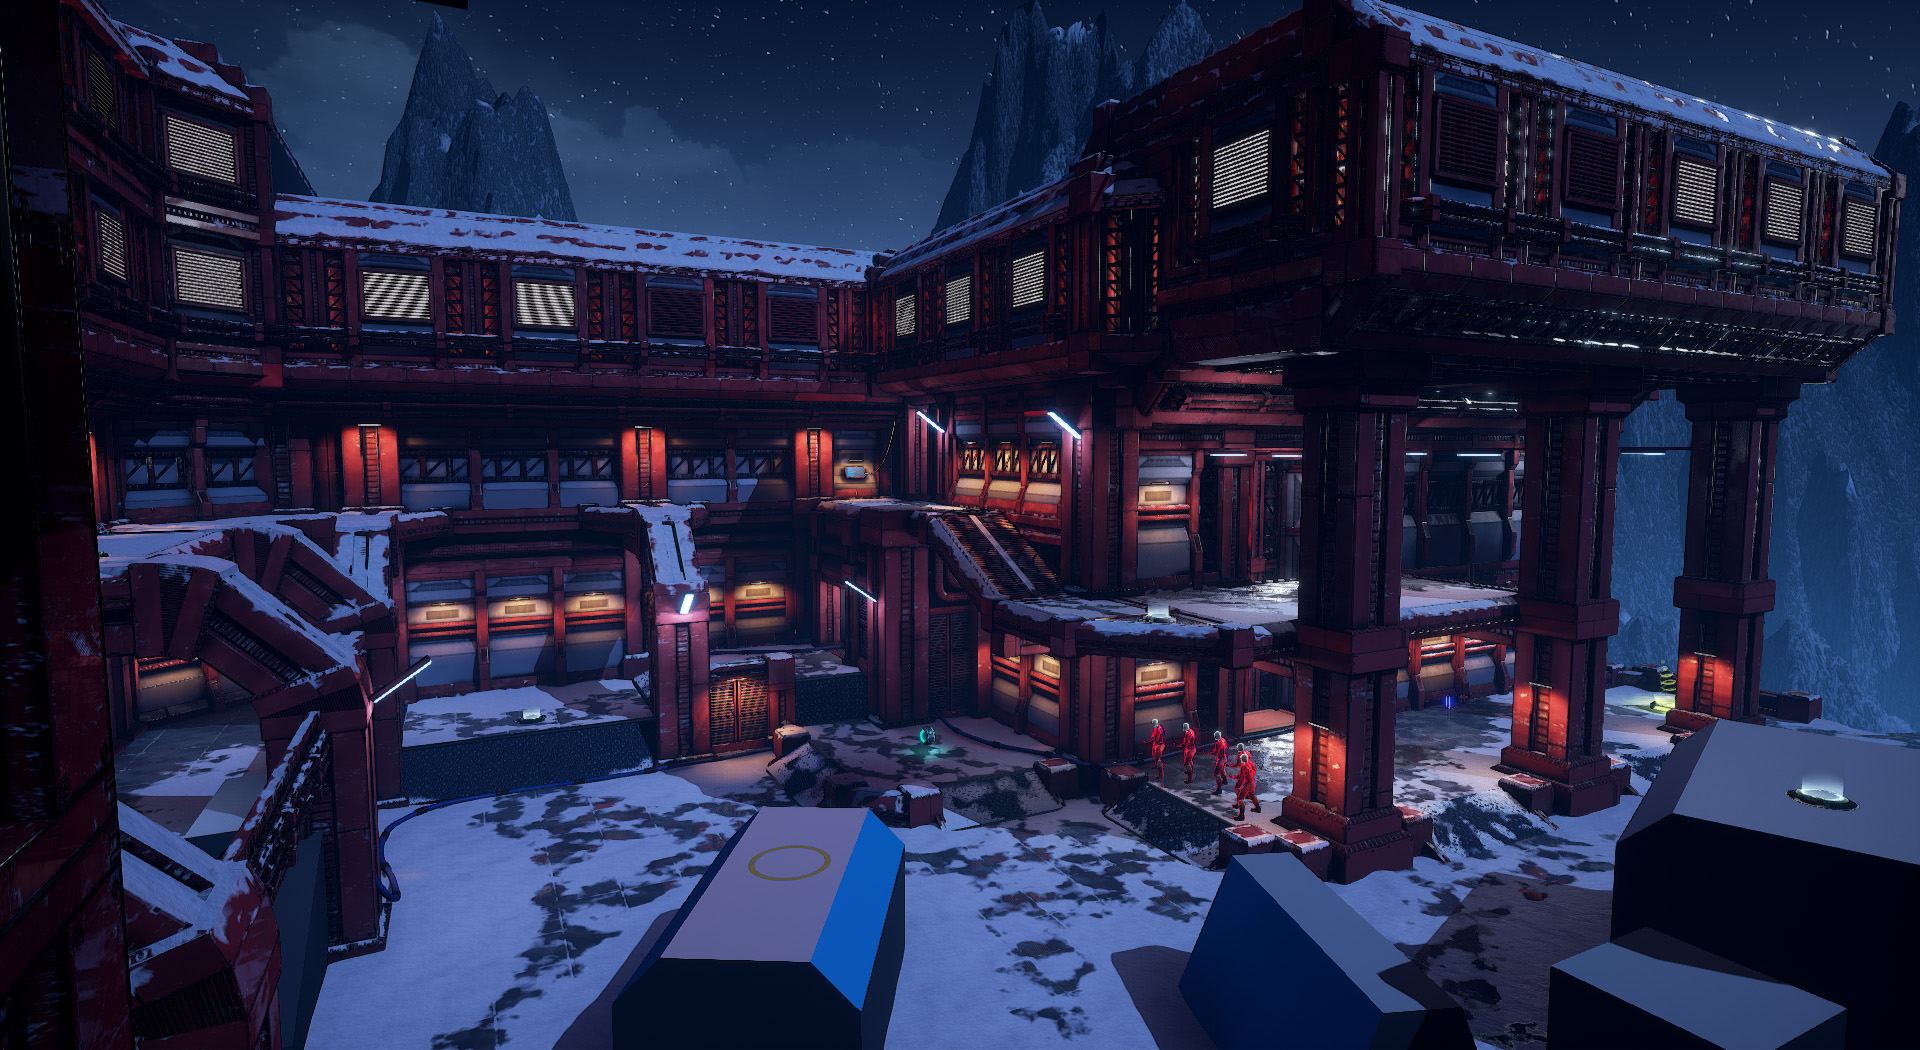
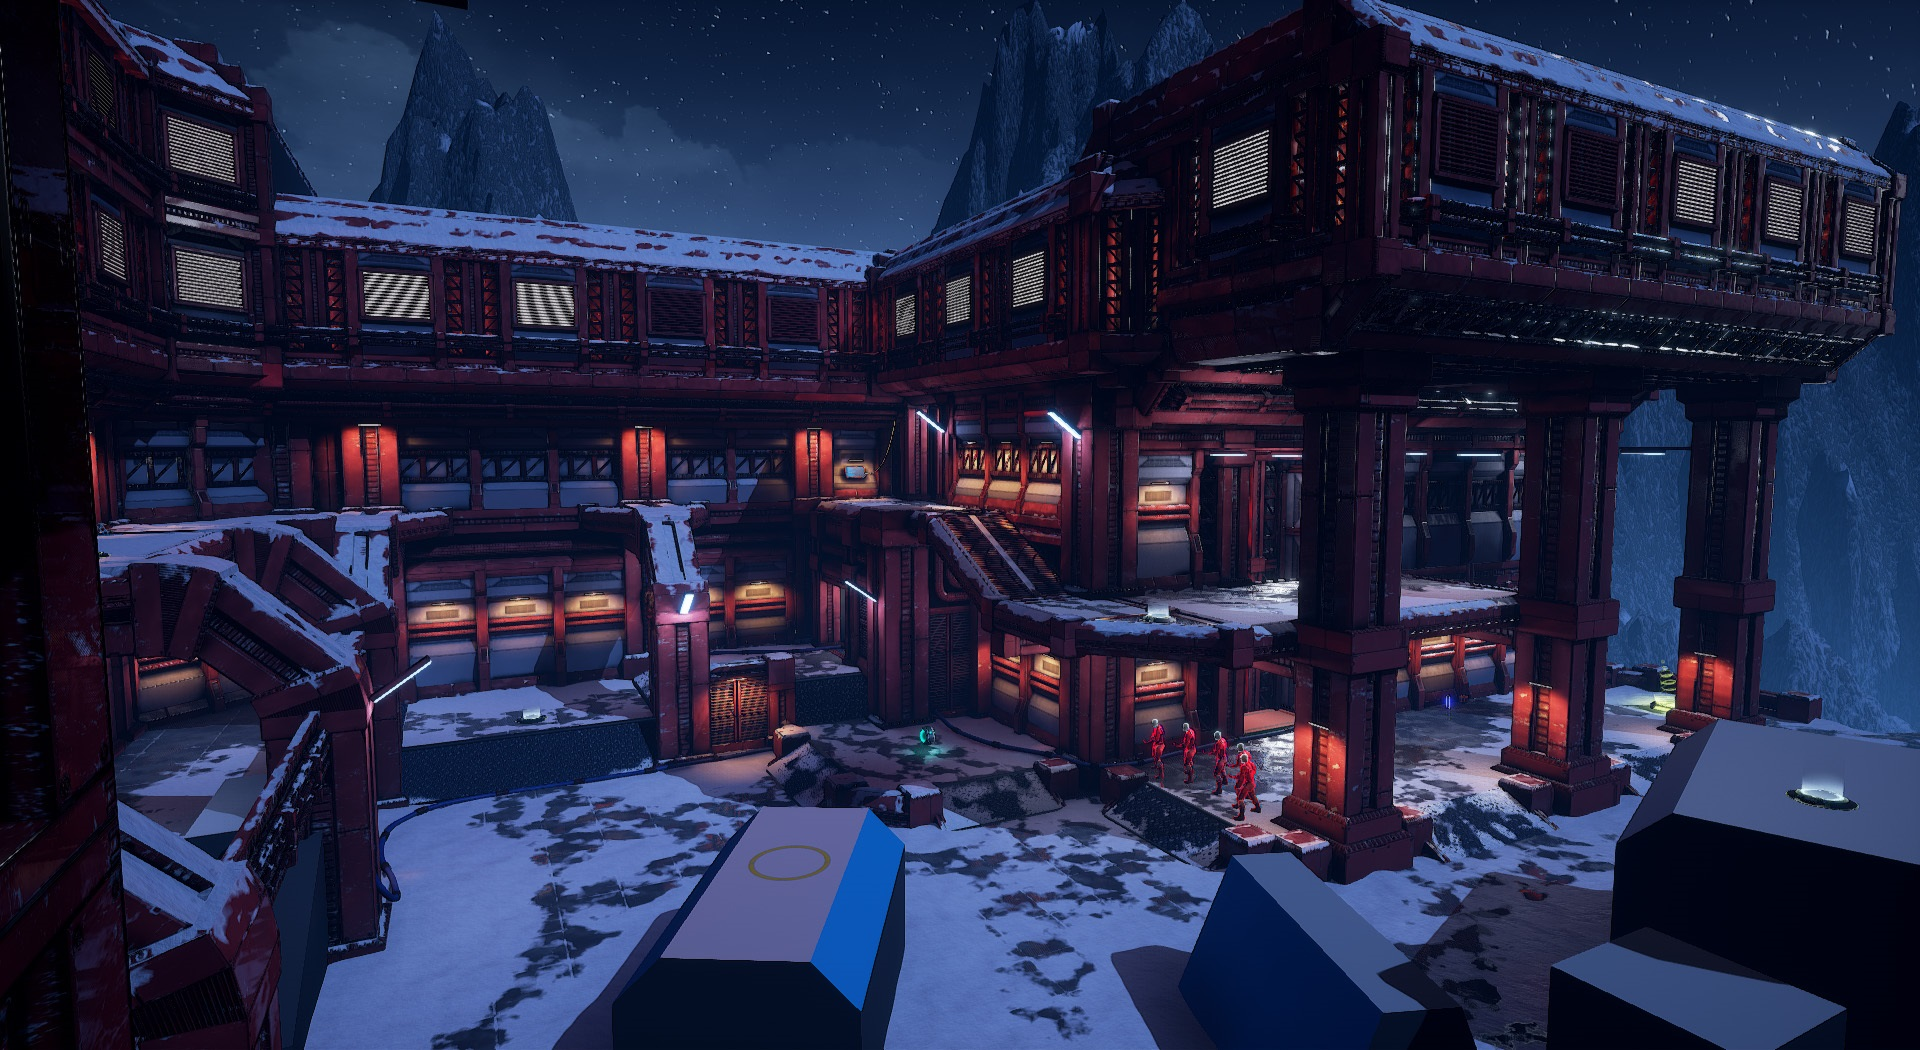
0.09
Added gradient to gallery next/prev
Added "All content" page
Removed "Contact" page
Changed Frost Moon images to smaller version for faster loading

Changed region(s): [[0.5938, 0.701, 0.6562, 0.7619], [0.5, 0.4267, 0.5312, 0.4571], [0.375, 0.64, 0.4062, 0.6705]]

diff --git a/Pages/FrostMoon.html b/Pages/FrostMoon.html
@@ -27,10 +27,10 @@
     <!-- Collect the nav links, forms, and other content for toggling -->
     <div class="navbar-collapse">
       <ul class="nav navbar-nav">
-		<li ><a href="AboutMe.html">About Me</a> </li>
+		<li ><a href="AboutMe.html">About & Contact</a> </li>
+		<li ><a href="Allcontent.html">All Content</a> 
         <li class="current"><a href="FrostMoon.html">Level Design</a> </li>
-		<li ><a href="WorldOfWarcraft.html">World of Warcraft</a> </li>
-		<li><a href="Contact.html">Contact</a> </li>
+		<li><a href="WorldOfWarcraft.html">World of Warcraft</a> </li>
       </ul>
       
     </div>
@@ -66,25 +66,25 @@
 		  <li class="gallery-dot" data-target="#carousel1" data-slide-to="1" onClick="GalleryToImage(9)"></li>
       </ol>
 	  <div class="carousel-inner" role="listbox">
-	    <div class="item active"><img src="../images/FrostMoon/Gallery/Gallery1.jpg" alt="Second slide image" class="center-block">
+	    <div class="item active"><img src="../images/FrostMoon/Gallery/Gallery1-Thumb.jpg" alt="Second slide image" class="center-block">
         </div>
-	    <div class="item"><img src="../images/FrostMoon/Gallery/Gallery2.jpg" alt="Second slide image" class="center-block">
+	    <div class="item"><img src="../images/FrostMoon/Gallery/Gallery2-Thumb.jpg" alt="Second slide image" class="center-block">
         </div>
-		   <div class="item"><img src="../images/FrostMoon/Gallery/Gallery3.jpg" alt="Second slide image" class="center-block">
+		   <div class="item"><img src="../images/FrostMoon/Gallery/Gallery3-Thumb.jpg" alt="Second slide image" class="center-block">
         </div>
-		   <div class="item"><img src="../images/FrostMoon/Gallery/Gallery4.jpg" alt="Second slide image" class="center-block">
+		   <div class="item"><img src="../images/FrostMoon/Gallery/Gallery4-Thumb.jpg" alt="Second slide image" class="center-block">
         </div>
-		   <div class="item"><img src="../images/FrostMoon/Gallery/Gallery5.jpg" alt="Second slide image" class="center-block">
+		   <div class="item"><img src="../images/FrostMoon/Gallery/Gallery5-Thumb.jpg" alt="Second slide image" class="center-block">
         </div>
-		   <div class="item"><img src="../images/FrostMoon/Gallery/Gallery6.jpg" alt="Second slide image" class="center-block">
+		   <div class="item"><img src="../images/FrostMoon/Gallery/Gallery6-Thumb.jpg" alt="Second slide image" class="center-block">
         </div>
-		  <div class="item"><img src="../images/FrostMoon/Gallery/Gallery7.jpg" alt="Second slide image" class="center-block">
+		  <div class="item"><img src="../images/FrostMoon/Gallery/Gallery7-Thumb.jpg" alt="Second slide image" class="center-block">
         </div>
-		  <div class="item"><img src="../images/FrostMoon/Gallery/Gallery8.jpg" alt="Second slide image" class="center-block">
+		  <div class="item"><img src="../images/FrostMoon/Gallery/Gallery8-Thumb.jpg" alt="Second slide image" class="center-block">
         </div>
-		  <div class="item"><img src="../images/FrostMoon/Gallery/Gallery9.jpg" alt="Second slide image" class="center-block">
+		  <div class="item"><img src="../images/FrostMoon/Gallery/Gallery9-Thumb.jpg" alt="Second slide image" class="center-block">
         </div>
-		  <div class="item"><img src="../images/FrostMoon/Gallery/Gallery10.jpg" alt="Second slide image" class="center-block">
+		  <div class="item"><img src="../images/FrostMoon/Gallery/Gallery10-Thumb.jpg" alt="Second slide image" class="center-block">
         </div>
 		  <a class="left carousel-control" onClick="GalleryPrevImage()"><span class="glyphicon glyphicon-chevron-left" aria-hidden="true"></span><span class="sr-only">Previous</span></a><a class="right carousel-control" onClick="GalleryNextImage()"><span class="glyphicon glyphicon-chevron-right" aria-hidden="true"></span><span class="sr-only">Next</span></a>
 		  
@@ -128,39 +128,39 @@
 	   <!-- <li data-target="#carousel2" data-slide-to="2"></li>-->
       </ol>
 	  <div class="carousel-inner" role="listbox">
-	    <div class="item-dev active"><img src="../images/FrostMoon/DevGallery/Gallery1.jpg" alt="First slide image" class="center-block">
+	    <div class="item-dev active"><img src="../images/FrostMoon/DevGallery/Gallery1-Thumb.jpg" alt="First slide image" class="center-block">
         </div>
-	    <div class="item-dev"><img src="../images/FrostMoon/DevGallery/Gallery2.jpg" alt="Second slide image" class="center-block">
+	    <div class="item-dev"><img src="../images/FrostMoon/DevGallery/Gallery2-Thumb.jpg" alt="Second slide image" class="center-block">
         </div>
-		  <div class="item-dev"><img src="../images/FrostMoon/DevGallery/Gallery3.jpg" alt="Second slide image" class="center-block">
+		  <div class="item-dev"><img src="../images/FrostMoon/DevGallery/Gallery3-Thumb.jpg" alt="Second slide image" class="center-block">
         </div>
-		  <div class="item-dev"><img src="../images/FrostMoon/DevGallery/Gallery4.jpg" alt="Second slide image" class="center-block">
+		  <div class="item-dev"><img src="../images/FrostMoon/DevGallery/Gallery4-Thumb.jpg" alt="Second slide image" class="center-block">
         </div>
-		  <div class="item-dev"><img src="../images/FrostMoon/DevGallery/Gallery5.jpg" alt="Second slide image" class="center-block">
+		  <div class="item-dev"><img src="../images/FrostMoon/DevGallery/Gallery5-Thumb.jpg" alt="Second slide image" class="center-block">
         </div>
-		  <div class="item-dev"><img src="../images/FrostMoon/DevGallery/Gallery6.jpg" alt="Second slide image" class="center-block">
+		  <div class="item-dev"><img src="../images/FrostMoon/DevGallery/Gallery6-Thumb.jpg" alt="Second slide image" class="center-block">
         </div>
-		  <div class="item-dev"><img src="../images/FrostMoon/DevGallery/Gallery7.jpg" alt="Second slide image" class="center-block">
+		  <div class="item-dev"><img src="../images/FrostMoon/DevGallery/Gallery7-Thumb.jpg" alt="Second slide image" class="center-block">
         </div>
-		   <div class="item-dev"><img src="../images/FrostMoon/DevGallery/Gallery8.jpg" alt="Second slide image" class="center-block">
+		   <div class="item-dev"><img src="../images/FrostMoon/DevGallery/Gallery8-Thumb.jpg" alt="Second slide image" class="center-block">
         </div>
-		   <div class="item-dev"><img src="../images/FrostMoon/DevGallery/Gallery9.jpg" alt="Second slide image" class="center-block">
+		   <div class="item-dev"><img src="../images/FrostMoon/DevGallery/Gallery9-Thumb.jpg" alt="Second slide image" class="center-block">
         </div>
-		   <div class="item-dev"><img src="../images/FrostMoon/DevGallery/Gallery10.jpg" alt="Second slide image" class="center-block">
+		   <div class="item-dev"><img src="../images/FrostMoon/DevGallery/Gallery10-Thumb.jpg" alt="Second slide image" class="center-block">
         </div>
-		   <div class="item-dev"><img src="../images/FrostMoon/DevGallery/Gallery11.jpg" alt="Second slide image" class="center-block">
+		   <div class="item-dev"><img src="../images/FrostMoon/DevGallery/Gallery11-Thumb.jpg" alt="Second slide image" class="center-block">
         </div>
-		   <div class="item-dev"><img src="../images/FrostMoon/DevGallery/Gallery12.jpg" alt="Second slide image" class="center-block">
+		   <div class="item-dev"><img src="../images/FrostMoon/DevGallery/Gallery12-Thumb.jpg" alt="Second slide image" class="center-block">
         </div>
-		   <div class="item-dev"><img src="../images/FrostMoon/DevGallery/Gallery13.jpg" alt="Second slide image" class="center-block">
+		   <div class="item-dev"><img src="../images/FrostMoon/DevGallery/Gallery13-Thumb.jpg" alt="Second slide image" class="center-block">
         </div>
-		   <div class="item-dev"><img src="../images/FrostMoon/DevGallery/Gallery14.jpg" alt="Second slide image" class="center-block">
+		   <div class="item-dev"><img src="../images/FrostMoon/DevGallery/Gallery14-Thumb.jpg" alt="Second slide image" class="center-block">
         </div>
-		   <div class="item-dev"><img src="../images/FrostMoon/DevGallery/Gallery15.jpg" alt="Second slide image" class="center-block">
+		   <div class="item-dev"><img src="../images/FrostMoon/DevGallery/Gallery15-Thumb.jpg" alt="Second slide image" class="center-block">
         </div>
-		  <div class="item-dev"><img src="../images/FrostMoon/DevGallery/Gallery16.jpg" alt="Second slide image" class="center-block">
+		  <div class="item-dev"><img src="../images/FrostMoon/DevGallery/Gallery16-Thumb.jpg" alt="Second slide image" class="center-block">
         </div>
-		   <div class="item-dev"><img src="../images/FrostMoon/DevGallery/Gallery17.jpg" alt="Second slide image" class="center-block">
+		   <div class="item-dev"><img src="../images/FrostMoon/DevGallery/Gallery17-Thumb.jpg" alt="Second slide image" class="center-block">
         </div>
 		  
 		  <a class="left carousel-control" onClick="DevGalleryPrevImage()"><span class="glyphicon glyphicon-chevron-left" aria-hidden="true"></span><span class="sr-only">Previous</span></a><a class="right carousel-control" onClick="DevGalleryNextImage()"><span class="glyphicon glyphicon-chevron-right" aria-hidden="true"></span><span class="sr-only">Next</span></a>

diff --git a/Pages/AllContent.html b/Pages/AllContent.html
@@ -29,9 +29,9 @@
     <div class="navbar-collapse">
       <ul class="nav navbar-nav">
 		<li ><a href="AboutMe.html">About & Contact</a> </li>
-		<li ><a href="Allcontent.html">All Content</a> 
+		<li class="current"><a href="Allcontent.html">All Content</a> 
         <li ><a href="FrostMoon.html">Level Design</a> </li>
-		<li class="current"><a href="WorldOfWarcraft.html">World of Warcraft</a> </li>
+		<li><a href="WorldOfWarcraft.html">World of Warcraft</a> </li>
       </ul>
       
     </div>
@@ -46,41 +46,48 @@
 	 
 <div class="container">
 	<div class="pageTitle">
-	 <h1>World of Warcaft</h1>
+	 <h1>All content</h1>
 		</div>
   <!--<div class="row">-->
-    <div class="col-lg-12 col-md-12">
-      <div class="frontTile " style="height:auto" >
-		  <div class="tileText">
-			<span>In 2011 I set my first step into add-on creation for World of Warcraft. It started out as an ugly duckling, but I was determined to stick to it, and as it improved in quality, so did my skills.
-		  	</span>
-		  <span>In the years since, I've created more projects, experimented with new things, and learned a lot. But most importantly I found a passion.
-		  </span>
-		  <span>
-			  By sharing my add-ons with others, I learned the importance of feedback. With every add-on you create something, get feedback, and learn to use it to improve both the product and your skills.
-			</span>
-		   <span>
-			   When creating an add-on I take it upon myself to make it fit in with the default UI as much as possible. Both as an extra challenge, and to not take away from the player's immersion by looking out of place.
-		  </span>
-		  </div>
-		  </div>
-		</div>
-	
-	<div class="col-lg-6 col-md-12">
-		  <a class="frontTile" href="WorldQuestTab.html" >
-			<div class="frontTileBody" style='background-image:url("../images/WoW_WQT.jpg");'>
+    
+	<div class="col-lg-4 col-md-6 col-xs-6">
+		  <a class="frontTile" href="AboutMe.html" >
+			<div class="frontTileBody" style='background-image:url("../images/AboutMe.jpg");'>
 <div class="frontTileDetails">
-            <h2 class="frontTileTitle">World Quest Tab</h2>
+            <h2 class="frontTileTitle">About & Contact</h2>
 	</div>
             </div>
 		  </a>
 		  </div>
 	
-	<div class="col-lg-6 col-md-12">
+	<div class="col-lg-4 col-md-6 col-xs-6">
+		  <a class="frontTile" href="FrostMoon.html" >
+			<div class="frontTileBody" style='background-image:url("../images/LD_FrostMoon.jpg");'>
+<div class="frontTileDetails">
+            <div class="h2 frontTileTitle">Frost Moon<h6 class="allContentSub">Level Design</h6></div>
+			
+	</div>
+            </div>
+		  </a>
+		  </div>
+	
+	<div class="col-lg-4 col-md-6 col-xs-6">
+		  <a class="frontTile" href="WorldQuestTab.html" >
+			<div class="frontTileBody" style='background-image:url("../images/WoW_WQT.jpg");'>
+<div class="frontTileDetails">
+            <div class="h2 frontTileTitle">World Quest Tab<h6 class="allContentSub">World of Warcraft</h6></div>
+			
+	</div>
+            </div>
+		  </a>
+		  </div>
+	
+	<div class="col-lg-4 col-md-6  col-xs-6">
 		  <a class="frontTile" href="ILearnedWhat.html" >
 			<div class="frontTileBody" style='background-image:url("../images/WoW_ILW.jpg");'>
 <div class="frontTileDetails">
-            <h2 class="frontTileTitle">I Learned What?</h2>
+            <div class="h2 frontTileTitle">I Learned What?<h6 class="allContentSub">World of Warcraft</h6></div>
+			
 	</div>
             </div>
 		  </a>

diff --git a/css/bootstrap.css b/css/bootstrap.css
@@ -6348,24 +6348,24 @@ button.close {
   opacity: .5;
 }
 .carousel-control.left {
-	/*
+	left: 0px;
   background-image: -webkit-linear-gradient(left, rgba(0, 0, 0, .5) 0%, rgba(0, 0, 0, .0001) 100%);
   background-image:      -o-linear-gradient(left, rgba(0, 0, 0, .5) 0%, rgba(0, 0, 0, .0001) 100%);
   background-image: -webkit-gradient(linear, left top, right top, from(rgba(0, 0, 0, .5)), to(rgba(0, 0, 0, .0001)));
   background-image:         linear-gradient(to right, rgba(0, 0, 0, .5) 0%, rgba(0, 0, 0, .0001) 100%);
-	*/
+
   filter: progid:DXImageTransform.Microsoft.gradient(startColorstr='#80000000', endColorstr='#00000000', GradientType=1);
   background-repeat: repeat-x;
 }
 .carousel-control.right {
-  right: 0;
+  right: 0px;
   left: auto;
-	/*
+	
   background-image: -webkit-linear-gradient(left, rgba(0, 0, 0, .0001) 0%, rgba(0, 0, 0, .5) 100%);
   background-image:      -o-linear-gradient(left, rgba(0, 0, 0, .0001) 0%, rgba(0, 0, 0, .5) 100%);
   background-image: -webkit-gradient(linear, left top, right top, from(rgba(0, 0, 0, .0001)), to(rgba(0, 0, 0, .5)));
   background-image:         linear-gradient(to right, rgba(0, 0, 0, .0001) 0%, rgba(0, 0, 0, .5) 100%);
-	*/
+	
   filter: progid:DXImageTransform.Microsoft.gradient(startColorstr='#00000000', endColorstr='#80000000', GradientType=1);
   background-repeat: repeat-x;
 }
@@ -6462,6 +6462,16 @@ button.close {
 
 .carousel-caption .btn {
   text-shadow: none;
+}
+@media screen and (min-width: 1200px) {
+		.carousel-control.left {
+  left: 100px;
+	}
+	
+	.carousel-control.right {
+  right: 100px;
+  left: auto;
+	}
 }
 @media screen and (min-width: 768px) {
   .carousel-control .glyphicon-chevron-left,
@@ -6709,6 +6719,14 @@ li > a::hover {
 
 .frontTileSub {
 	display: none;
+}
+
+.allContentSub {
+	display: block;
+	margin: 0px 0px 0px 0px;
+	border-radius: 5px;
+
+	padding: 2px 4px 2px 4px;
 }
 
 .navbar-brand >h1{

diff --git a/Pages/WorldQuestTab.html b/Pages/WorldQuestTab.html
@@ -28,10 +28,10 @@
     <!-- Collect the nav links, forms, and other content for toggling -->
     <div class="navbar-collapse">
       <ul class="nav navbar-nav">
-		<li ><a href="AboutMe.html">About Me</a> </li>
+		<li ><a href="AboutMe.html">About & Contact</a> </li>
+		<li ><a href="Allcontent.html">All Content</a> 
         <li ><a href="FrostMoon.html">Level Design</a> </li>
 		<li class="current"><a href="WorldOfWarcraft.html">World of Warcraft</a> </li>
-		<li><a href="Contact.html">Contact</a> </li>
       </ul>
       
     </div>
@@ -71,7 +71,7 @@
 	    <div class="item"><img src="../images/WQT/Gallery2.jpg" alt="Second slide image" class="center-block">
         </div>
 		  
-		  <a class="left carousel-control" onClick="GalleryPrevImage()"><span class="glyphicon glyphicon-chevron-left" aria-hidden="true"></span><span class="sr-only">Previous</span></a><a class="right carousel-control" onClick="GalleryNextImage()"><span class="glyphicon glyphicon-chevron-right" aria-hidden="true"></span><span class="sr-only">Next</span></a>
+		  <a class="left carousel-control" ontouchstart="GalleryPrevImage()" onClick="GalleryPrevImage()"><span class="glyphicon glyphicon-chevron-left" aria-hidden="true"></span><span class="sr-only">Previous</span></a><a class="right carousel-control" onClick="GalleryNextImage()" ontouchstart="GalleryNextImage()"><span class="glyphicon glyphicon-chevron-right" aria-hidden="true"></span><span class="sr-only">Next</span></a>
       </div>
 	</div>
 	

diff --git a/index.html b/index.html
@@ -28,10 +28,10 @@
     <!-- Collect the nav links, forms, and other content for toggling -->
     <div class="navbar-collapse">
       <ul class="nav navbar-nav">
-		<li ><a href="Pages/AboutMe.html">About Me</a> </li>
-        <li ><a href="Pages/FrostMoon.html">Level Design</a> </li>
-		<li ><a href="Pages/WorldOfWarcraft.html">World of Warcraft</a> </li>
-		<li><a href="Pages/Contact.html">Contact</a> </li>
+		<li><a href="Pages/AboutMe.html">About & Contact</a> </li>
+		<li ><a href="Pages/Allcontent.html">All Content</a> 
+        <li><a href="Pages/FrostMoon.html">Level Design</a> </li>
+		<li><a href="Pages/WorldOfWarcraft.html">World of Warcraft</a> </li>
       </ul>
       
     </div>
@@ -65,8 +65,8 @@
 		  <a class="frontTile" href="Pages/WorldQuestTab.html" >
 			<div class="frontTileBody" style='background-image:url("images/WoW_WQT.jpg");'>
 <div class="frontTileDetails">
-            <h2 class="frontTileTitle">World Quest Tab</h4>
-            <h6 class="frontTileSub">World of Warcraft</h4>
+            <h2 class="frontTileTitle">World Quest Tab</h2>
+            <h6 class="frontTileSub">World of Warcraft</h6>
 	</div>
             </div>
 		  </a>

diff --git a/Pages/AboutMe.html b/Pages/AboutMe.html
@@ -28,10 +28,10 @@
     <!-- Collect the nav links, forms, and other content for toggling -->
     <div class="navbar-collapse">
       <ul class="nav navbar-nav">
-		<li class="current"><a href="AboutMe.html">About Me</a> </li>
-        <li ><a href="FrostMoon.html">Level Design</a> </li>
-		<li ><a href="WorldOfWarcraft.html">World of Warcraft</a> </li>
-		<li ><a href="Contact.html">Contact</a> </li>
+		<li class="current"><a href="AboutMe.html">About & Contact</a> </li>
+		<li ><a href="Allcontent.html">All Content</a> 
+        <li><a href="FrostMoon.html">Level Design</a> </li>
+		<li><a href="WorldOfWarcraft.html">World of Warcraft</a> </li>
       </ul>
       
     </div>

diff --git a/Pages/ILearnedWhat.html b/Pages/ILearnedWhat.html
@@ -28,10 +28,10 @@
     <!-- Collect the nav links, forms, and other content for toggling -->
     <div class="navbar-collapse">
       <ul class="nav navbar-nav">
-		<li ><a href="AboutMe.html">About Me</a> </li>
+		<li ><a href="AboutMe.html">About & Contact</a> </li>
+		<li ><a href="Allcontent.html">All Content</a> 
         <li ><a href="FrostMoon.html">Level Design</a> </li>
 		<li class="current"><a href="WorldOfWarcraft.html">World of Warcraft</a> </li>
-		<li><a href="Contact.html">Contact</a> </li>
       </ul>
       
     </div>
